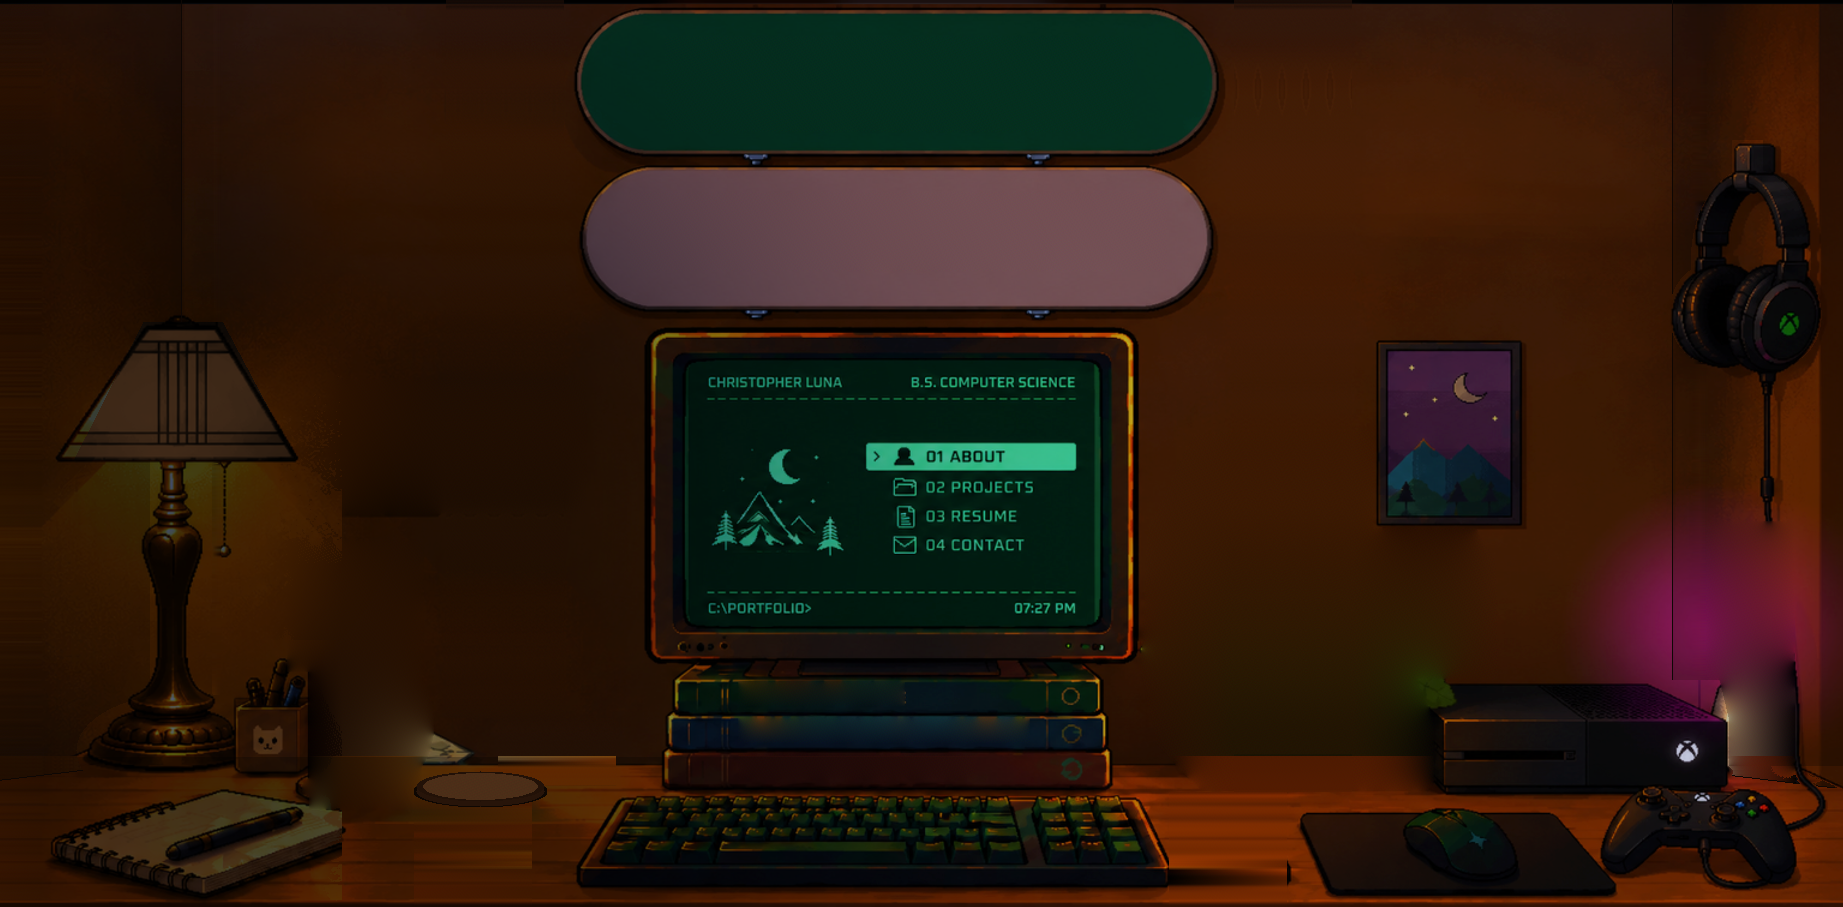
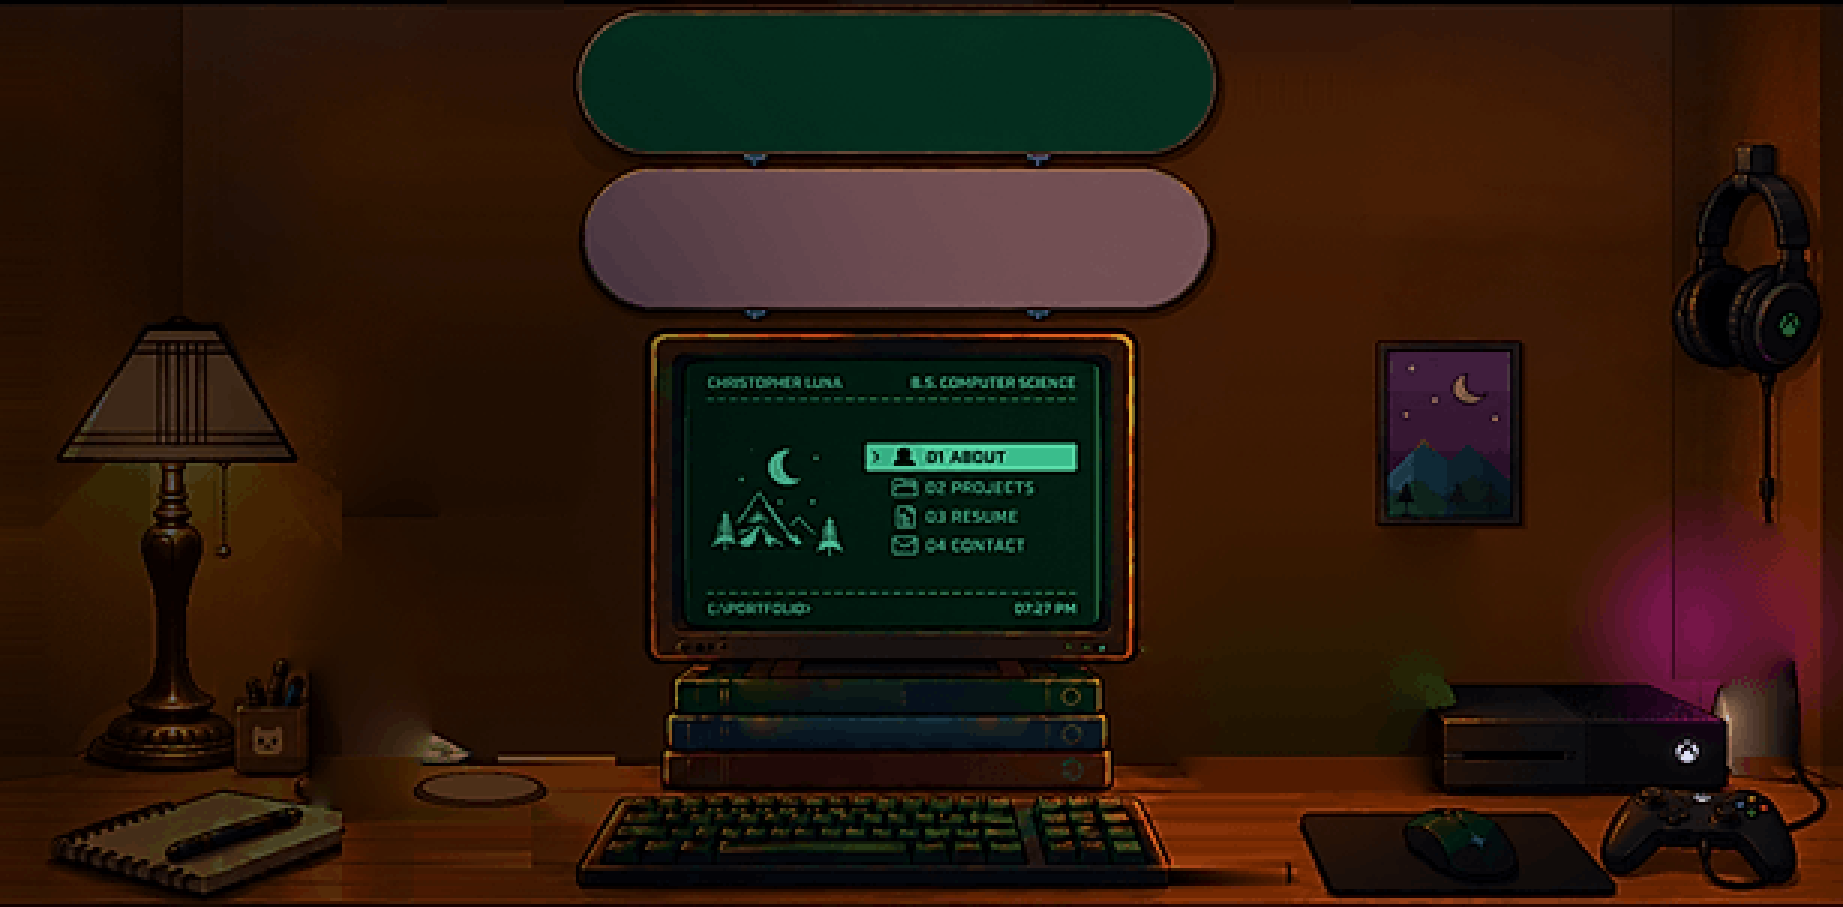
Polish the room into real pixel art
The room (lamp on and off, and the side walls) is now sharpened, brought down to a 3 art px grid, held to a 200-colour palette with a light dither and blown back up with hard edges, so the mockup's airbrushed gradients and smeared outlines become clean stepped pixels like the mug, notes and plant. Nothing moved.

diff --git a/scripts/mockup-room.js b/scripts/mockup-room.js
@@ -314,6 +314,18 @@ function coaster(img, lit) {
   return img;
 }
 
+/**
+ * The room drawn as pixel art, like the props: sharpened, brought down to a chunky grid (PIX art px a pixel),
+ * held to a limited palette with a light dither, and blown back up with hard edges, so the mockup's airbrushed
+ * gradients and smeared edges become clean stepped pixels.
+ */
+const PIX = 3;
+async function pixelize(buf, w) {
+  const gw = Math.round(w / PIX), gh = Math.round(H / PIX);
+  const small = await sharp(buf, { raw: { width: w, height: H, channels: 3 } }).sharpen({ sigma: 1.1, m1: 0.6, m2: 1.4 }).resize(gw, gh, { kernel: 'lanczos3' }).png({ palette: true, colours: 200, dither: 0.35 }).toBuffer();
+  return sharp(small).removeAlpha().resize(w, H, { kernel: 'nearest' }).raw().toBuffer();
+}
+
 const saveWebp = async (buf, w, file) => { await sharp(buf, { raw: { width: w, height: H, channels: 3 } }).webp({ lossless: true, effort: 6 }).toFile(file + '.tmp'); fs.renameSync(file + '.tmp', file); };
 const savePng = (buf, w, file) => sharp(buf, { raw: { width: w, height: H, channels: 3 } }).png({ palette: true, colours: 128, dither: 0 }).toFile(file);
 
@@ -327,12 +339,13 @@ const savePng = (buf, w, file) => sharp(buf, { raw: { width: w, height: H, chann
   shiftLamp(img);
   const off0 = lampOff(img);
   const room = alignCorners(coaster(widen(img), 1)), off = alignCorners(coaster(widen(off0), 0.55));
-  await saveWebp(room, WW, path.join(CIN, 'room.webp'));
-  await saveWebp(off, WW, path.join(CIN, 'desk-off.webp'));
-  await savePng(side(room, true), SW, path.join(CIN, 'side-left.png'));
-  await savePng(side(room, false), SW, path.join(CIN, 'side-right.png'));
-  await savePng(side(off, true), SW, path.join(CIN, 'side-left-off.png'));
-  await savePng(side(off, false), SW, path.join(CIN, 'side-right-off.png'));
+  const roomP = await pixelize(room, WW), offP = await pixelize(off, WW);
+  await saveWebp(roomP, WW, path.join(CIN, 'room.webp'));
+  await saveWebp(offP, WW, path.join(CIN, 'desk-off.webp'));
+  await savePng(await pixelize(side(room, true), SW), SW, path.join(CIN, 'side-left.png'));
+  await savePng(await pixelize(side(room, false), SW), SW, path.join(CIN, 'side-right.png'));
+  await savePng(await pixelize(side(off, true), SW), SW, path.join(CIN, 'side-left-off.png'));
+  await savePng(await pixelize(side(off, false), SW), SW, path.join(CIN, 'side-right-off.png'));
 
   // ---- room.json: every box in art px (mockup px x K) ----
   const A = (v) => Math.round(v * K);
